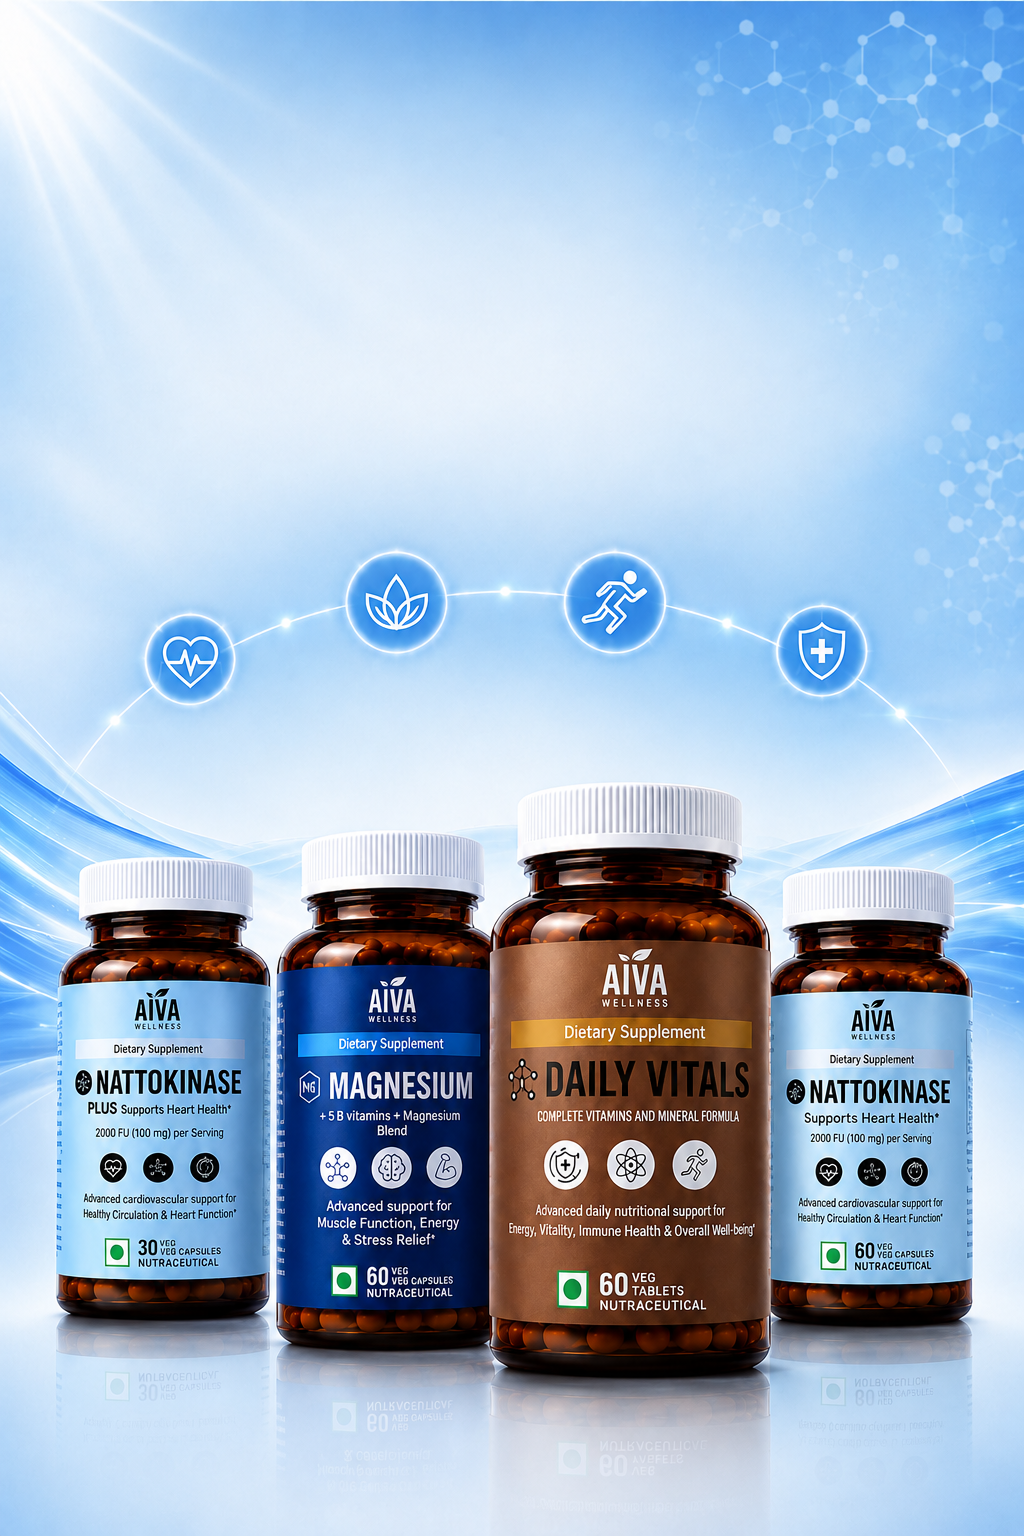
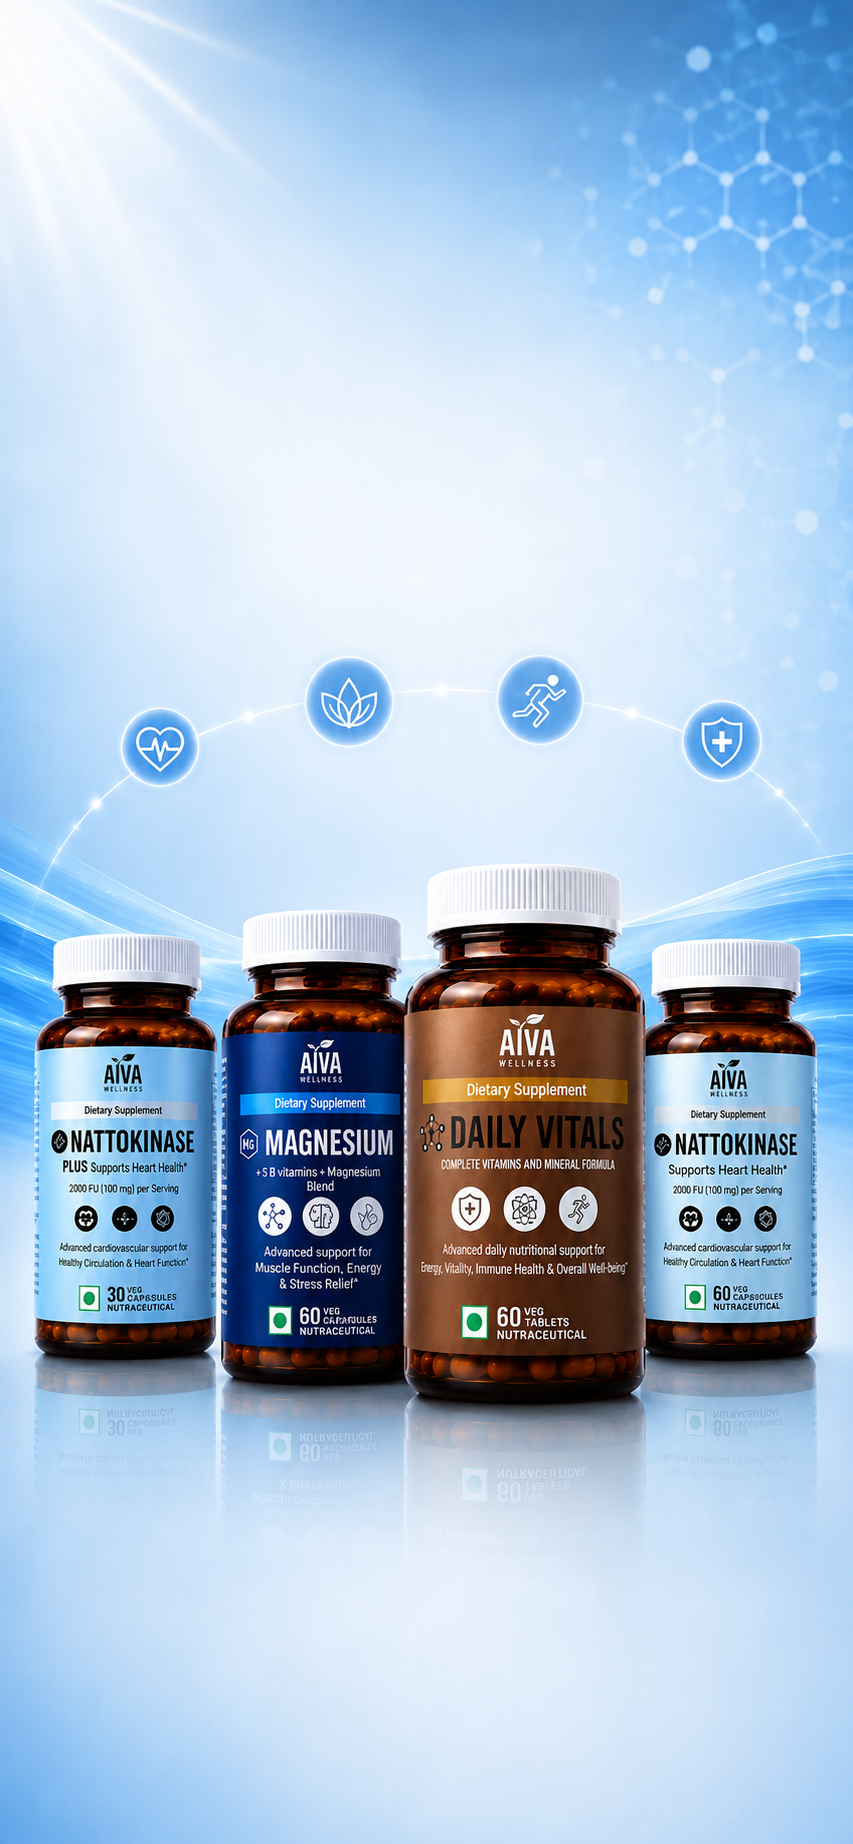
.

diff --git a/index.html b/index.html
@@ -728,7 +728,7 @@
       }
       @media (max-width: 480px) {
         .slide-img-wrap img {
-          aspect-ratio: 1/1.35;
+          aspect-ratio: 1/1.45;
         }
       }
 
